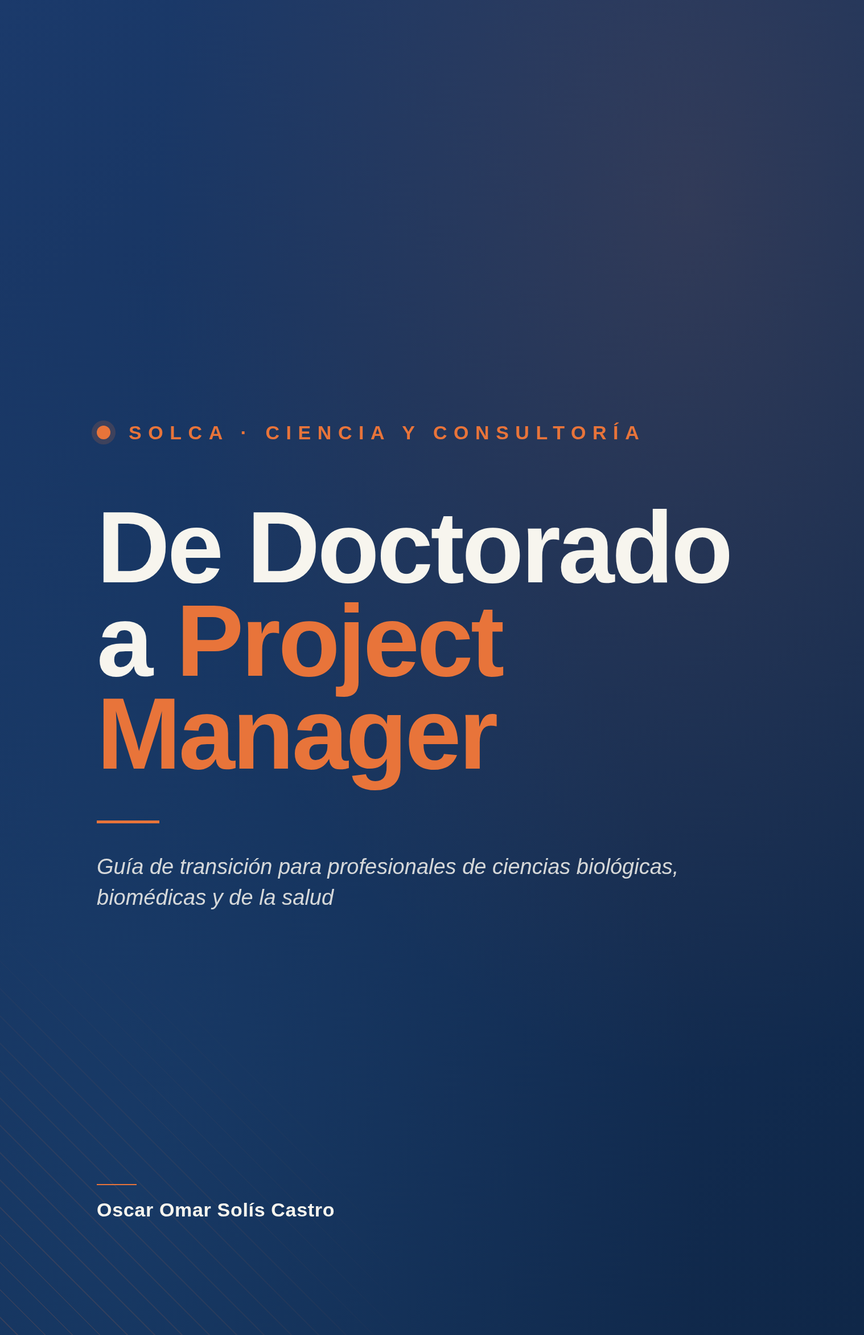
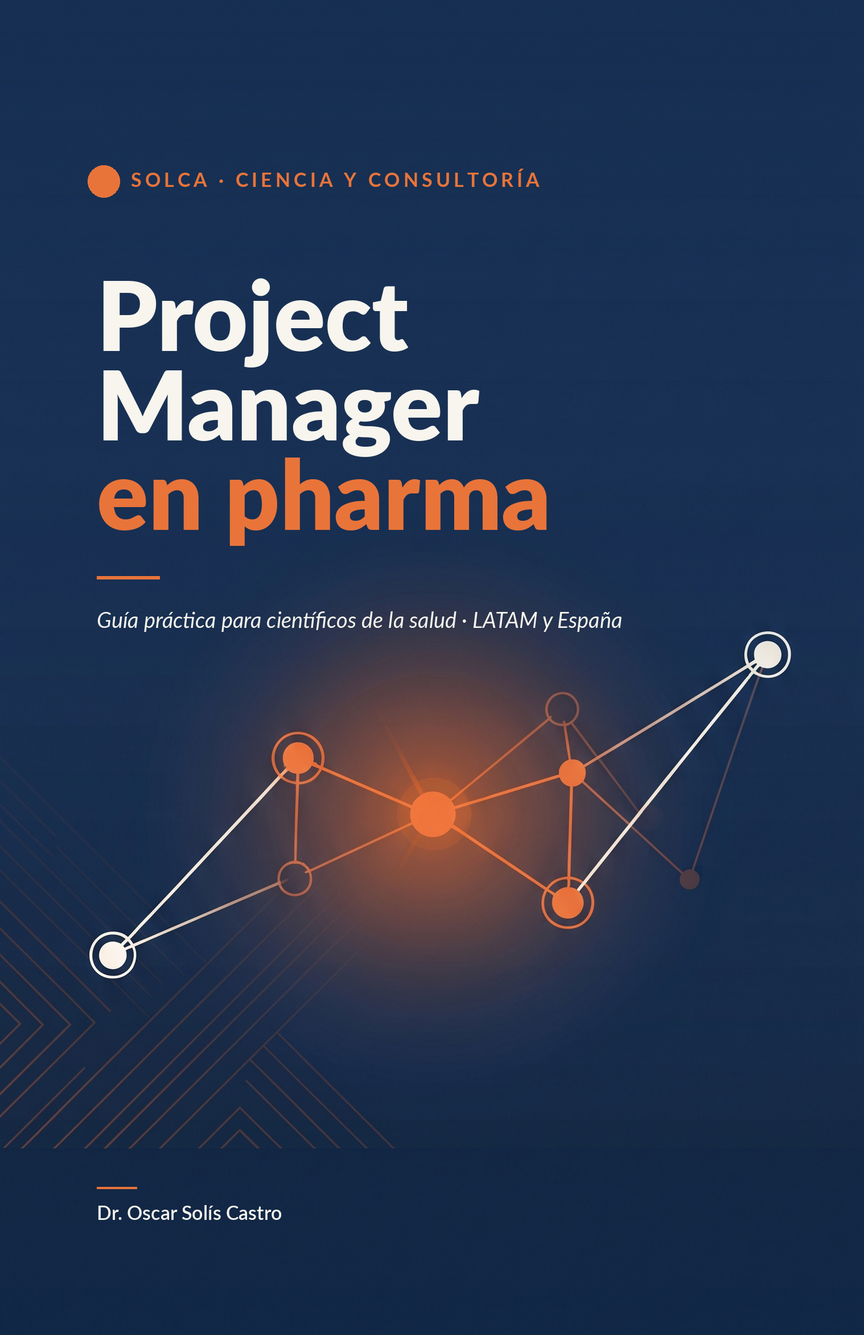
site: portadas nuevas + títulos LATAM+España + descripciones Hotmart

diff --git a/_docs/HOTMART_DESCRIPTIONS_2026_08.md b/_docs/HOTMART_DESCRIPTIONS_2026_08.md
@@ -1,0 +1,208 @@
+# Descripciones Hotmart · Libros Solca (11 ago 2026)
+
+Descripciones nuevas para los 3 SKUs de Hotmart tras la reescritura editorial de agosto 2026.
+
+**Marco editorial:** los 3 libros son **guías introductorias** para profesionales de ciencias de la salud que quieren **iniciar carrera en industria pharma** en LATAM y España. No son enciclopedias avanzadas. Copy suavizado según instrucción de Oscar del 11 ago.
+
+**Estructura por SKU:** Título · Subtítulo persuasivo · Para quién es · Para quién NO es · Qué incluye · Formato · Sobre el autor · Compra segura.
+
+**Cómo usar este doc:** copia-pega cada bloque en el editor de descripción del SKU correspondiente en Hotmart. Verifica títulos e imágenes hero (portada) antes de guardar.
+
+---
+
+## SKU 1 · Libro Project Manager en pharma
+
+**Título en Hotmart:** Project Manager en pharma
+
+**Subtítulo:** Guía práctica para científicos de la salud · LATAM y España
+
+**Precio de lanzamiento:** MXN $599 · Regular $799
+
+**URL corta:** https://go.hotmart.com/R105710415P
+
+**Descripción larga** (copia-pega):
+
+---
+
+**Guía práctica de entrada al rol de Project Manager en industria farmacéutica. Pensada para quien inicia carrera en pharma desde una formación científica.**
+
+### ¿Para quién es este libro?
+
+Para profesionales de ciencias biológicas, biomédicas o de la salud —PhD, MD, PharmD, QFB, biólogo, químico, biotecnólogo, enfermería con formación científica, o cualquier perfil científico afín— que están considerando entrar como Project Manager a industria farmacéutica, biotecnológica, dispositivos médicos, CROs o salud digital, en LATAM o España.
+
+Es una **guía introductoria**. Si no conoces el rol o tienes dudas sobre cómo trasladar tu formación al lenguaje de la industria, este libro es el mapa que necesitas antes de aplicar.
+
+### ¿Para quién NO es?
+
+- No es una enciclopedia técnica de gestión de proyectos. Si ya llevas 3+ años como PM certificado y buscas material avanzado sobre metodologías específicas, hay bibliografía en inglés más profunda (algunos títulos en las referencias).
+- No sustituye la conversación con un PM en activo. La guía te prepara para tenerla de forma productiva.
+- No promete "conviértete en PM en 30 días". La transición requiere tiempo, método y aplicación consistente.
+
+### Qué incluye · cinco módulos organizados como ruta
+
+**Módulo 1 — Fundamentos.** Qué es un proyecto y qué hace un Project Manager, las doce habilidades clave del rol y cómo cada una se conecta con tu experiencia científica previa.
+
+**Módulo 2 — Operación industrial.** Ciclo de vida del proyecto, gestión de riesgos y cambios, terminología pharma esencial, metodologías (Waterfall, Agile, Scrum, Kanban e híbridas) y diferencias operativas España vs LATAM para PMs pharma.
+
+**Módulo 3 — Mercado laboral.** Empresas activas en LATAM con datos salariales por país (México, Brasil, Colombia, Chile, Argentina) más un capítulo dedicado al mercado español (empresas Iberia y bandas en EUR con fuentes citables). Estrategia completa de búsqueda: LinkedIn, CV, networking, entrevista.
+
+**Módulo 4 — Primeros 90 días y crecimiento.** Cómo aterrizar bien en un nuevo rol, trayectorias verticales, certificaciones (PMP, PMI-ACP, PRINCE2, Scrum) y ocho movimientos laterales realistas desde PM.
+
+**Módulo 5 — IA y productividad.** Uso responsable de inteligencia artificial en gestión de proyectos, plantillas de prompts útiles, y una mirada sobria sobre lo que la IA puede y no puede hacer.
+
+Cada módulo cierra con un cuaderno de trabajo con ejercicios aplicables. No es lectura pasiva.
+
+### Formato y extensión
+
+- **Formato:** PDF descargable, apto para pantalla o impresión.
+- **Extensión:** ~20 mil palabras / ~116 páginas.
+- **Idioma:** español (glosario inglés-español de términos PM al final).
+- **Última actualización:** agosto 2026.
+- **Cobertura geográfica:** LATAM (5 países) + España (AEMPS, EMA, empresas Iberia, bandas EUR).
+- **Referencias verificables** con URL en cada módulo (PMBOK 7, ISO 21502, EPM Scientific 2026, EMA, AEMPS, DOJ, DiMasi-Tufts, Nature Communications 2025).
+
+### Sobre el autor
+
+Oscar Omar Solís Castro. Doctor en ciencias y consultor en industria farmacéutica LATAM. Fundador de Solca · Ciencia y Consultoría. Acompaña a profesionales de ciencias de la salud en la transición a industria con contenido editorial (blog, newsletter Solca Insight con +1,900 suscritos en LinkedIn), herramientas gratuitas (revisar CV, quiz de rol, simulador de entrevistas) y guías pagadas.
+
+### Compra segura
+
+- Pago vía Hotmart.
+- Entrega inmediata: descarga el PDF al confirmar la compra.
+- Garantía de 7 días: si no te sirve, te devolvemos el dinero sin preguntas.
+
+---
+
+## SKU 2 · Libro Medical Science Liaison
+
+**Título en Hotmart:** Medical Science Liaison
+
+**Subtítulo:** Guía práctica para científicos de la salud · LATAM y España
+
+**Precio de lanzamiento:** MXN $599 · Regular $799
+
+**URL corta:** https://go.hotmart.com/Y105718405Y
+
+**Descripción larga** (copia-pega):
+
+---
+
+**Guía práctica de entrada al rol de Medical Science Liaison (MSL) en industria farmacéutica. Pensada para quien inicia carrera en Medical Affairs desde una formación científica.**
+
+### ¿Para quién es este libro?
+
+Para profesionales de ciencias biológicas, biomédicas o de la salud —PhD, MD, PharmD, QFB, biólogo, químico, biotecnólogo, enfermería con formación científica— que están considerando entrar como MSL en industria farmacéutica, biotecnológica o dispositivos médicos, en LATAM o España.
+
+Es una **guía introductoria**. Si no sabes qué hace exactamente un MSL, cómo se distingue del visitador médico, o cómo trasladar tu formación científica al lenguaje de Medical Affairs, este libro es el mapa que necesitas.
+
+### ¿Para quién NO es?
+
+- No es una enciclopedia avanzada de Medical Affairs. Si ya eres MSL Senior o Field Lead con 5+ años de rol, encontrarás material más profundo en publicaciones especializadas (MAPS, MSL Society, PharmExec).
+- No sustituye la conversación con un MSL en activo en tu país o TA. La guía te prepara para esa conversación con criterio.
+- No promete "conviértete en MSL en 30 días". La transición típica es de 6-18 meses de preparación seria.
+
+### Qué incluye · cinco módulos organizados como ruta
+
+**Módulo 1 — Fundamentos del rol MSL.** Qué es y qué NO es un MSL (contraste con seis roles adyacentes), el ecosistema Medical Affairs, las diez habilidades clave, métricas de éxito y los cinco errores comunes del primer año.
+
+**Módulo 2 — Operación y compliance.** El día a día en campo (KOL mapping, visita científica, captura de insights, advisory boards), la línea operativa entre scientific exchange y promoción, marco regulatorio LATAM (5 países) más España (AEMPS, EMA, Farmaindustria) más contexto FDA (por qué importa el labeling on/off-label globalmente), ICH E6(R3) 2025 y áreas terapéuticas con mayor demanda.
+
+**Módulo 3 — Mercado laboral.** Empresas activas en LATAM y España con datos salariales por país (LATAM en moneda local + España en EUR con fuentes citables: EPM Scientific 2026, Glassdoor España, LinkedIn Salary). Empresas Iberia (multinacionales + farma española local). Estrategia completa: MSL Resume, entrevista de cuatro fases, presencia digital.
+
+**Módulo 4 — Primeros 90 días y crecimiento.** Onboarding técnico, primera visita, cuatro patrones de fracaso, trayectoria vertical estándar, siete movimientos laterales, certificaciones (MAPS, MSL Society, ACMA, BCMAS).
+
+**Módulo 5 — IA para MSLs.** Casos de uso reales hoy, diez prompts plantilla, riesgos éticos y operativos, y una mirada al MSL del futuro con tres tendencias sostenidas.
+
+Cada módulo cierra con un cuaderno de trabajo con ejercicios aplicables.
+
+### Formato y extensión
+
+- **Formato:** PDF descargable.
+- **Extensión:** ~45 mil palabras / ~193 páginas.
+- **Idioma:** español (glosario inglés-español de Medical Affairs).
+- **Última actualización:** agosto 2026.
+- **Cobertura geográfica:** LATAM (5 países) + España (AEMPS, EMA, Farmaindustria, empresas Iberia, bandas EUR).
+- **Referencias verificables** con URL en cada módulo (ICH E6(R3), Farmaindustria, McKinsey Vision for Medical Affairs 2030, EPM Scientific 2026, MSL Society, MAPS, ACMA).
+
+### Sobre el autor
+
+Oscar Omar Solís Castro. Doctor en ciencias y consultor en industria farmacéutica LATAM. Fundador de Solca · Ciencia y Consultoría. Acompaña a profesionales de ciencias de la salud en la transición a industria con contenido editorial (blog, newsletter Solca Insight con +1,900 suscritos en LinkedIn), herramientas gratuitas y guías pagadas.
+
+### Compra segura
+
+- Pago vía Hotmart.
+- Entrega inmediata: descarga el PDF al confirmar la compra.
+- Garantía de 7 días: si no te sirve, te devolvemos el dinero sin preguntas.
+
+---
+
+## SKU 3 · Libro Clinical Research
+
+**Título en Hotmart:** Clinical Research
+
+**Subtítulo:** Guía práctica para científicos de la salud · LATAM y España
+
+**Precio de lanzamiento:** MXN $599 · Regular $799
+
+**URL corta:** https://go.hotmart.com/U105724060O
+
+**Descripción larga** (copia-pega):
+
+---
+
+**Guía práctica de entrada a la investigación clínica en industria farmacéutica. Pensada para quien inicia carrera como Clinical Research Associate (CRA), Clinical Research Scientist (CRS) o roles adyacentes desde una formación científica.**
+
+### ¿Para quién es este libro?
+
+Para profesionales de ciencias biológicas, biomédicas o de la salud —PhD, MD, PharmD, QFB, biólogo, químico, biotecnólogo, enfermería con formación científica— que están considerando entrar como CRA, CRS o roles similares en investigación clínica: CROs multinacionales, sponsors farmacéuticos y biotech en LATAM o España.
+
+Es una **guía introductoria**. Si no conoces el ecosistema de ensayos clínicos, la diferencia entre sponsor, CRO, sitio, IRB y regulador, o cómo trasladar tu formación al lenguaje de clinical research, este libro es el mapa que necesitas antes de aplicar.
+
+### ¿Para quién NO es?
+
+- No es una enciclopedia avanzada de GCP ni de ICH. Si ya eres CRA Senior o CRS con 5+ años y buscas material específico sobre monitorización descentralizada o RWE, hay recursos técnicos más profundos (ACRP, SOCRA, DIA).
+- No sustituye la conversación con un CRA/CRS en activo. La guía te prepara para tenerla productivamente.
+- No promete "conviértete en CRA en 30 días". La transición típica es de 6-12 meses de preparación seria (certificación ICH-GCP, LinkedIn, primeras aplicaciones).
+
+### Qué incluye · cinco módulos organizados como ruta
+
+**Módulo 1 — Fundamentos.** Qué es un ensayo clínico y sus fases, cómo funciona el ecosistema de actores (sponsor, CRO, sitio, IRB/EC, regulador, paciente), qué hacen exactamente un CRS y un CRA en su día a día, y qué habilidades de tu formación científica se transfieren.
+
+**Módulo 2 — Operación y compliance.** Diseño de protocolo, ICH E6(R3) 2025 (qué cambia), marco regulatorio triple: **LATAM** (COFEPRIS, ANMAT, INVIMA, ISP, ANVISA), **España** (AEMPS, EMA, CTIS, Reglamento UE 536/2014) y **FDA** (21 CFR 312/50/56/11/314, Form 1572, Diversity Action Plans, guidance IA en drug development). Áreas terapéuticas con mayor demanda.
+
+**Módulo 3 — Mercado laboral.** Quién contrata en LATAM y España (pharma, biotech, CROs). Bandas salariales por país (LATAM en moneda local + España en EUR con fuentes citables: EPM Scientific 2026, Glassdoor España). Estrategia completa: LinkedIn, CV, networking, entrevista de cinco fases con método STAR.
+
+**Módulo 4 — Primeros 90 días y crecimiento.** Onboarding con plan 30/60/90, cuatro patrones de fracaso, crecimiento vertical (CRA → Director Operations, CRS → Director Investigación Clínica), siete movimientos laterales, certificaciones (ACRP CCRA, SOCRA CCRP, ACRP CCRC, SCT).
+
+**Módulo 5 — IA en investigación clínica.** Casos de uso reales hoy con clasificación honesta (qué está desplegado vs qué es hype), diez prompts plantilla para CRS y CRA, riesgos de GCP compliance con IA, marco regulatorio FDA/EMA/ICH ante la IA.
+
+Cada módulo cierra con un cuaderno de trabajo con ejercicios aplicables.
+
+### Formato y extensión
+
+- **Formato:** PDF descargable.
+- **Extensión:** ~44 mil palabras / ~198 páginas.
+- **Idioma:** español (glosario inglés-español de investigación clínica).
+- **Última actualización:** agosto 2026.
+- **Cobertura geográfica:** LATAM (5 países) + España (AEMPS, EMA, CTIS) + contexto FDA (21 CFR).
+- **Referencias verificables** con URL en cada módulo (ICH E6(R3), 21 CFR completo, Reglamento UE 536/2014, Real Decreto 1090/2015, AEMPS, EMA, EPM Scientific 2026, Diversity Action Plans FDA, Nature Communications 2025).
+
+### Sobre el autor
+
+Oscar Omar Solís Castro. Doctor en ciencias y consultor en industria farmacéutica LATAM. Fundador de Solca · Ciencia y Consultoría. Acompaña a profesionales de ciencias de la salud en la transición a industria con contenido editorial (blog, newsletter Solca Insight con +1,900 suscritos en LinkedIn), herramientas gratuitas y guías pagadas.
+
+### Compra segura
+
+- Pago vía Hotmart.
+- Entrega inmediata: descarga el PDF al confirmar la compra.
+- Garantía de 7 días: si no te sirve, te devolvemos el dinero sin preguntas.
+
+---
+
+## Notas para Oscar antes de subir a Hotmart
+
+1. **Verificar que las portadas nuevas estén subidas** en Hotmart antes de actualizar títulos (el orden importa: cover primero, título después evita periodo con mismatch).
+2. **Los precios están hardcoded** en las descripciones. Si vas a hacer una promoción distinta, ajusta antes de pegar.
+3. **La extensión en páginas** es aproximada según los DOCX regenerados 11 ago 2026 (PM ~116p, MSL ~193p, CR ~198p). Verifica el conteo final en el PDF exportado antes de subir.
+4. **Los links a Hotmart URL cortas** los pega Hotmart automáticamente; solo se listan aquí como referencia interna.
+5. **Sobre el "Sobre el autor"**: si en algún momento cambias la biografía institucional (por ejemplo agregas más credenciales), actualiza en los tres SKUs simultáneamente para consistencia.
